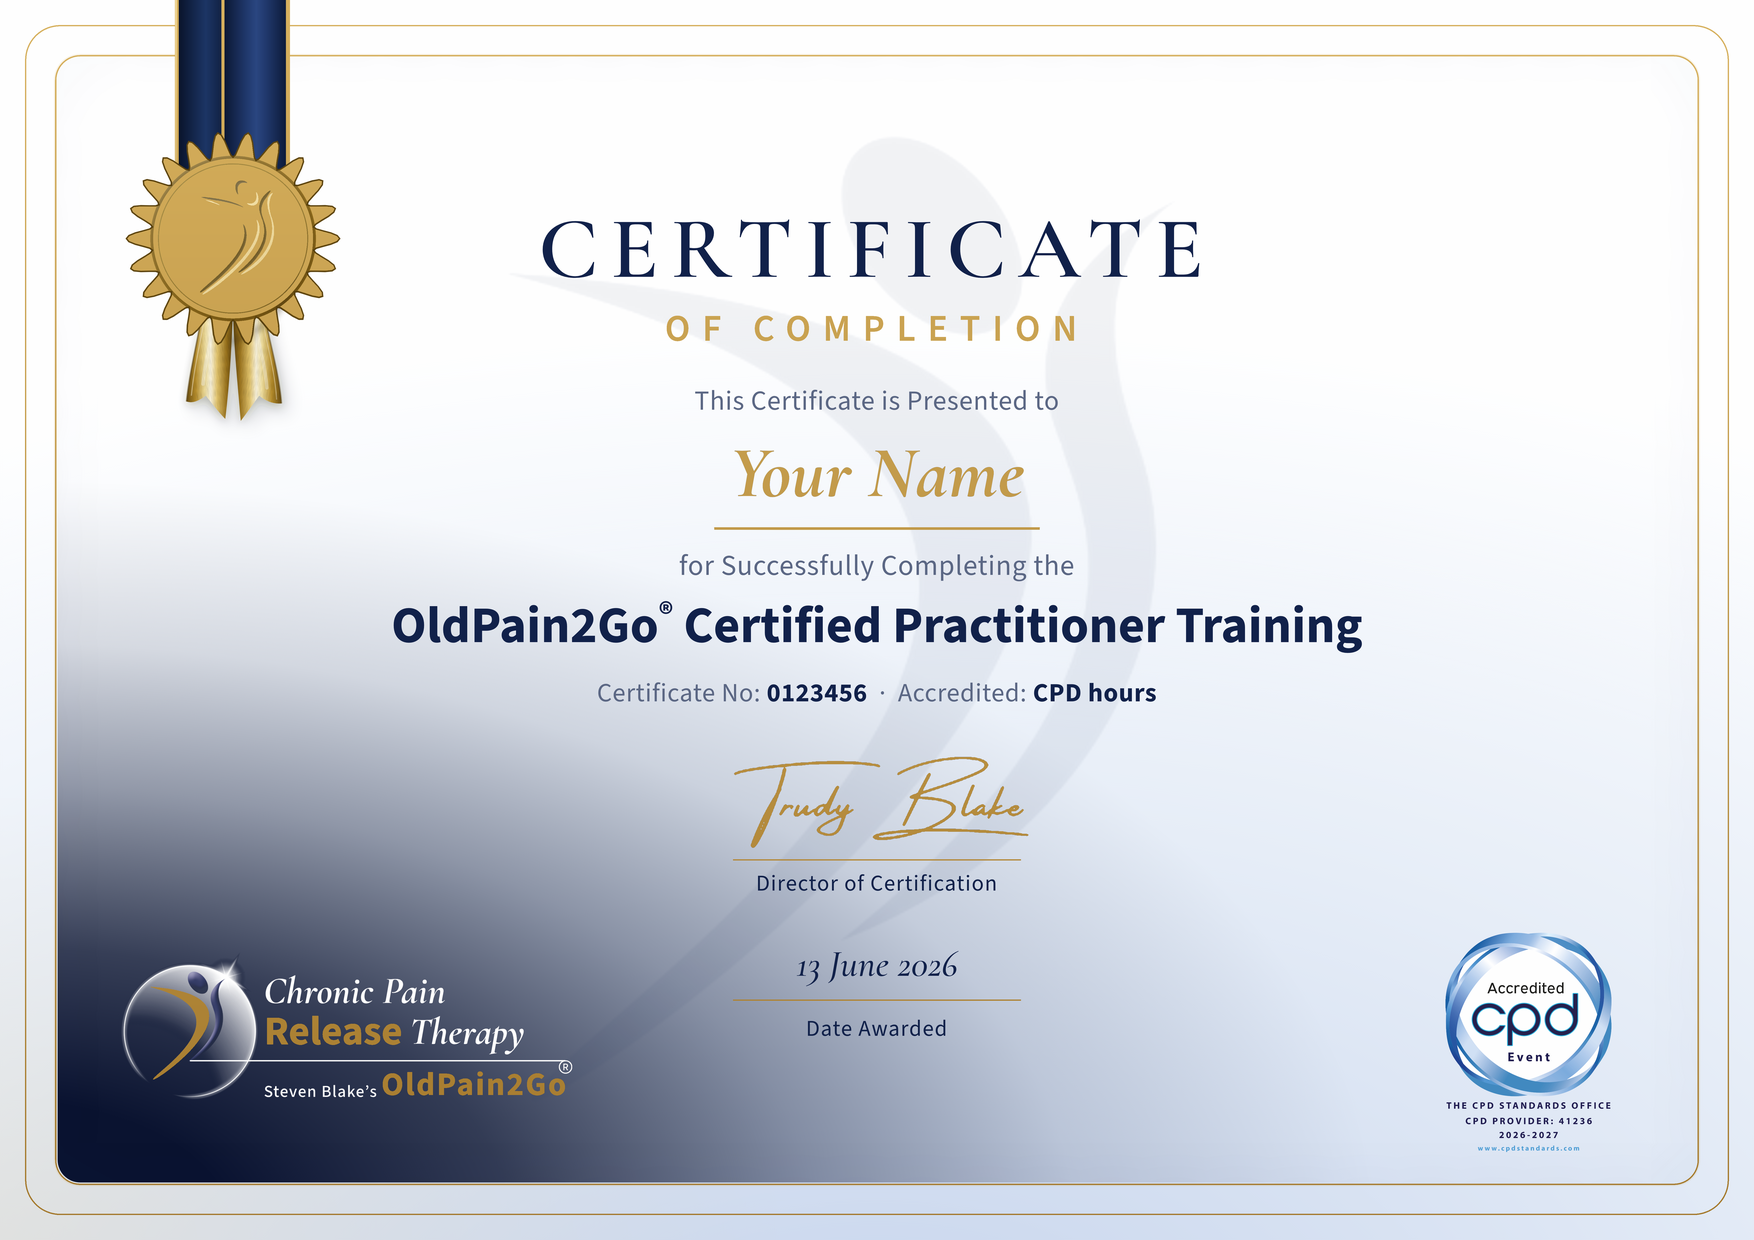
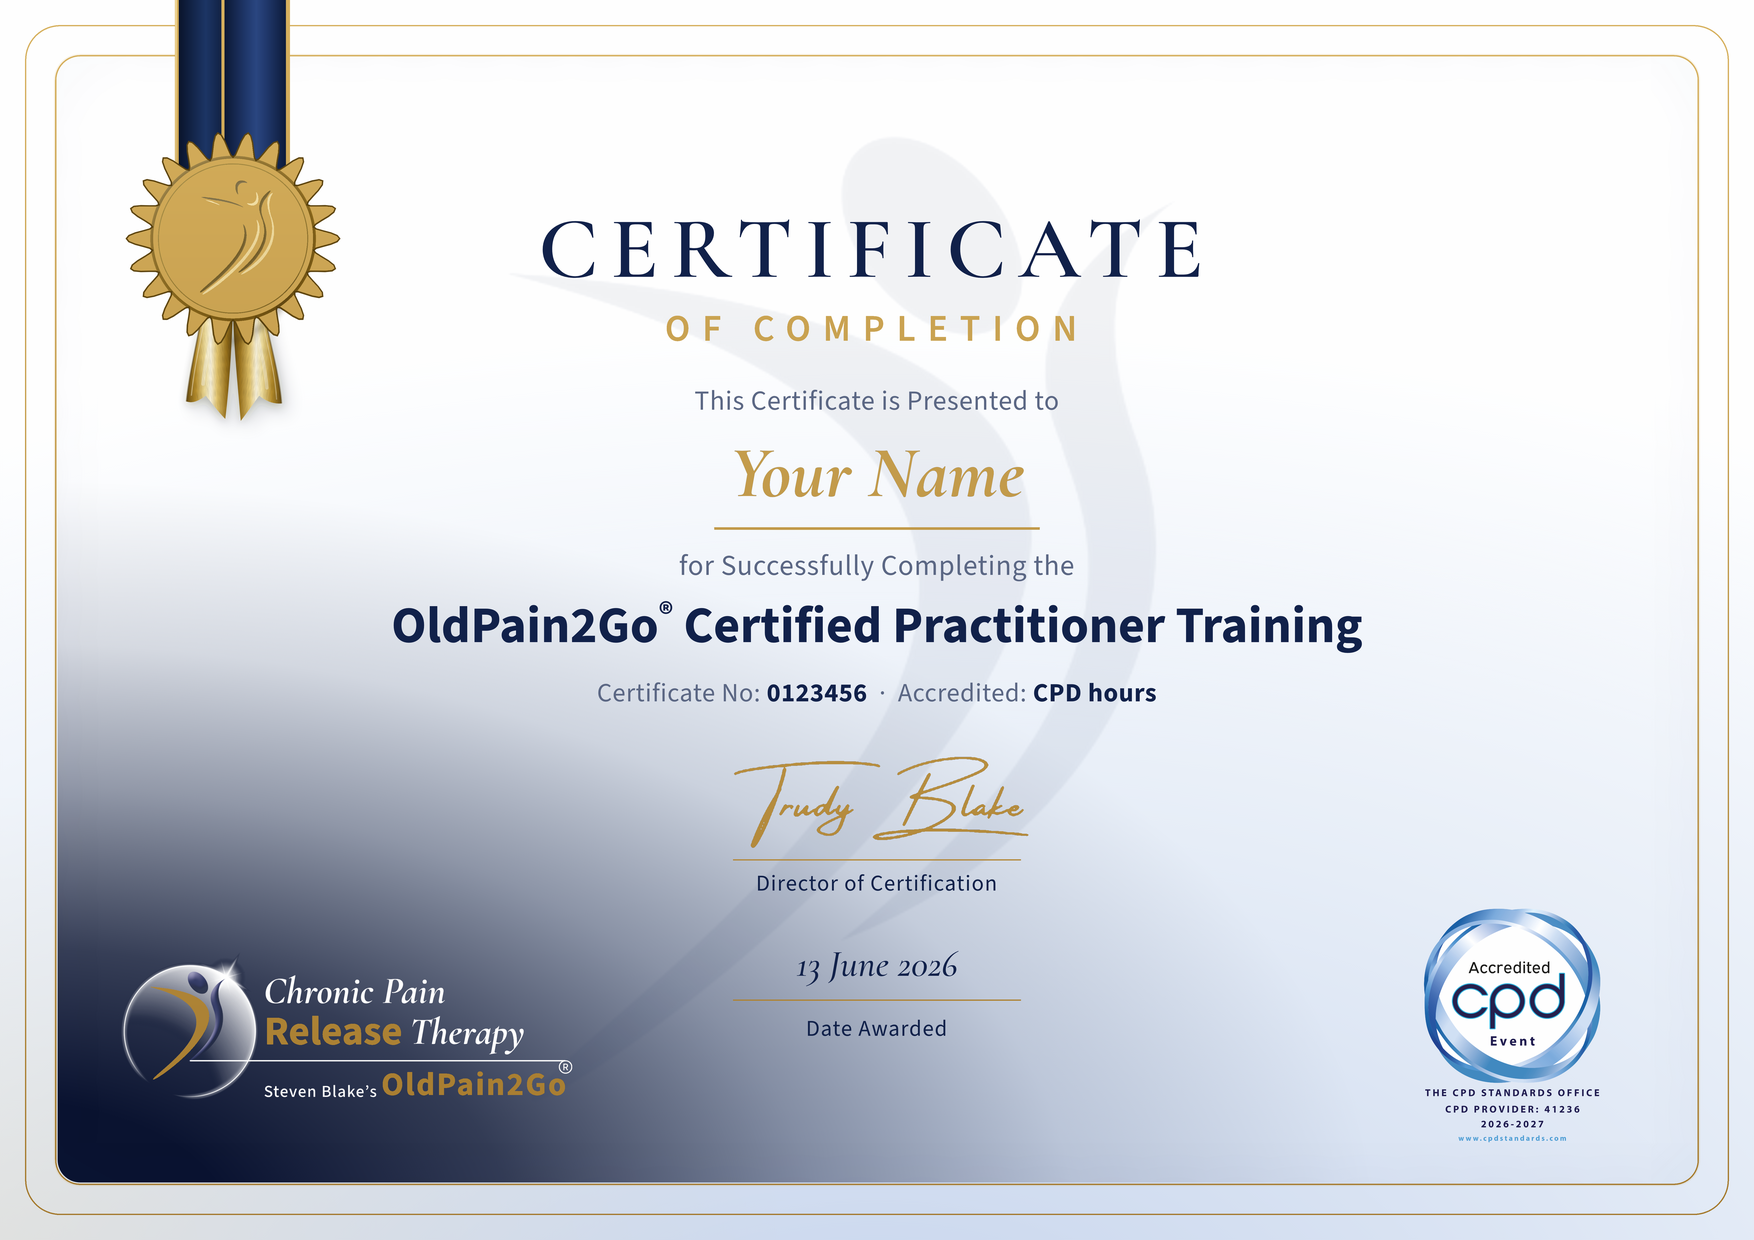
Certificate previews: light CPD seal resized+repositioned to match dark
Light seal was smaller (196px) and mis-placed vs the dark edition because
the two are anchored to different containers. Measured fix: light seal now
bottom:65px right:89px width:208px, landing at the dark's exact position
(x=1103, y=713). Updates cert-preview light cert + light foil previews.

Claude-Session: https://claude.ai/code/session_01A6WyMJDCcdPgToJBkfsSwx

Changed region(s): [[0.8005, 0.7355, 0.9236, 0.9194]]

diff --git a/cert-preview/OP2Go Premium Certificate - Light.dc.html b/cert-preview/OP2Go Premium Certificate - Light.dc.html
@@ -35,7 +35,7 @@
   <img src="cert-assets/op2go-logo-white-strapline.png" alt="Steven Blake's OldPain2Go — Chronic Pain Release Therapy" style="position:absolute; bottom:74px; left:74px; width:400px; height:auto; z-index:3; pointer-events:none;">
 
   <!-- CPD accreditation seal -->
-  <img src="cert-assets/cpd-seal-2026-2027.png" alt="Accredited CPD Event — The CPD Standards Office, CPD Provider 41236, 2026-2027, www.cpdstandards.com" style="position:absolute; bottom:58px; right:82px; width:196px; height:auto; z-index:3; pointer-events:none;">
+  <img src="cert-assets/cpd-seal-2026-2027.png" alt="Accredited CPD Event — The CPD Standards Office, CPD Provider 41236, 2026-2027, www.cpdstandards.com" style="position:absolute; bottom:65px; right:89px; width:208px; height:auto; z-index:3; pointer-events:none;">
 
   <!-- JoyHope watermark (baked image, was a file-masked div that Chrome blocks over file://) -->
     <img src="cert-assets/watermark-joyhope-light.png" alt="" style="position:absolute; top:50%; left:50%; transform:translate(-50%,-50%); width:820px; height:820px; opacity:0.06; z-index:1; pointer-events:none;">
